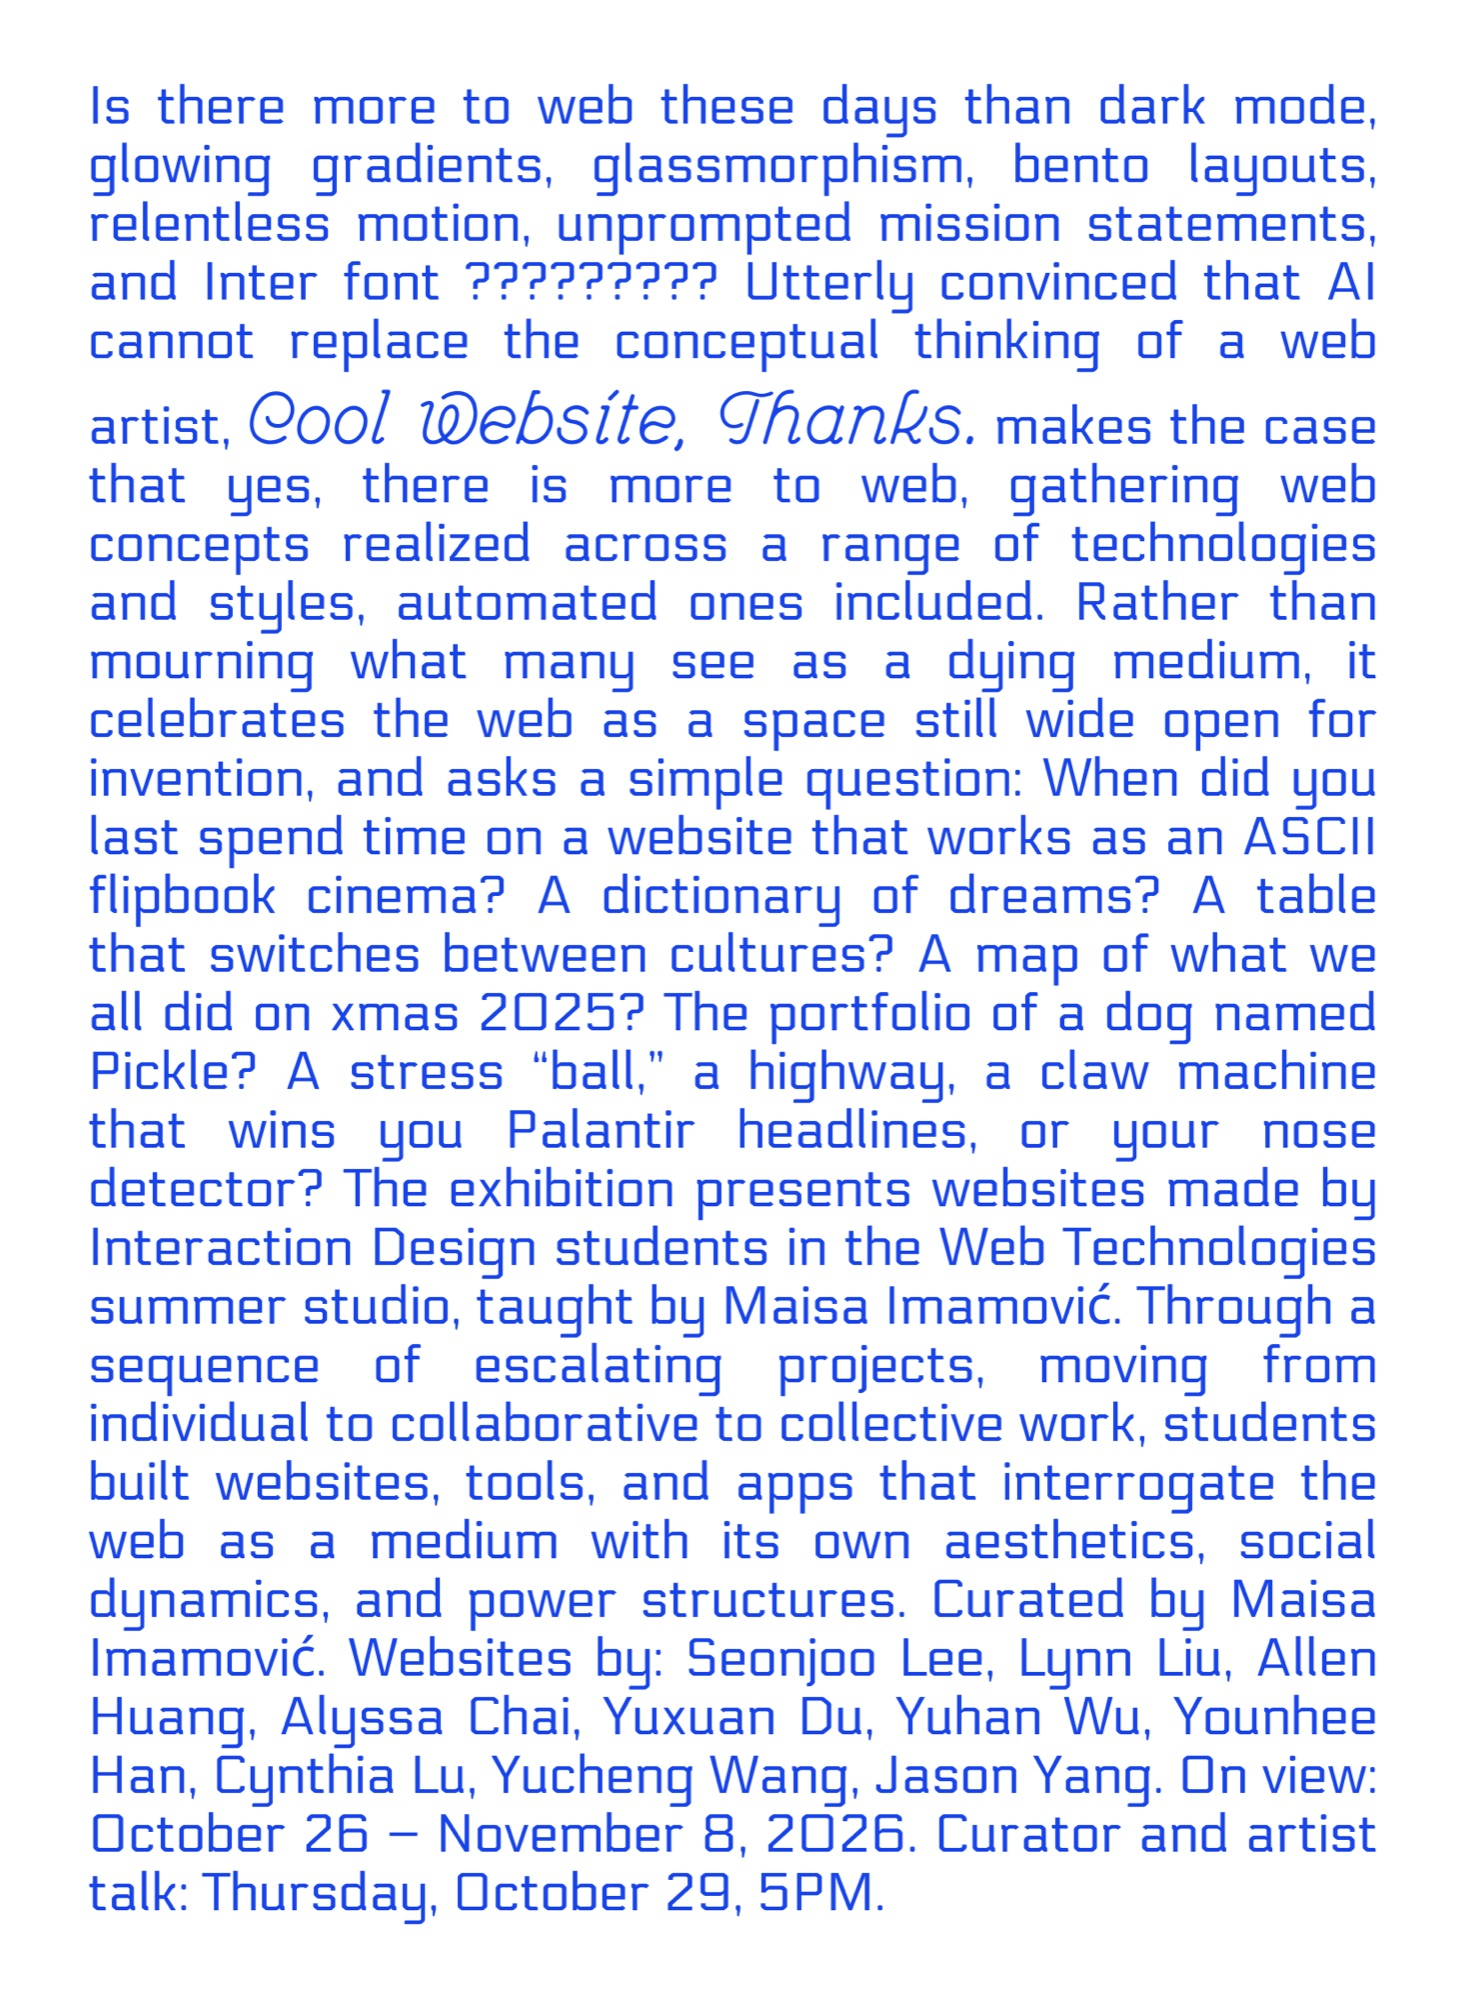
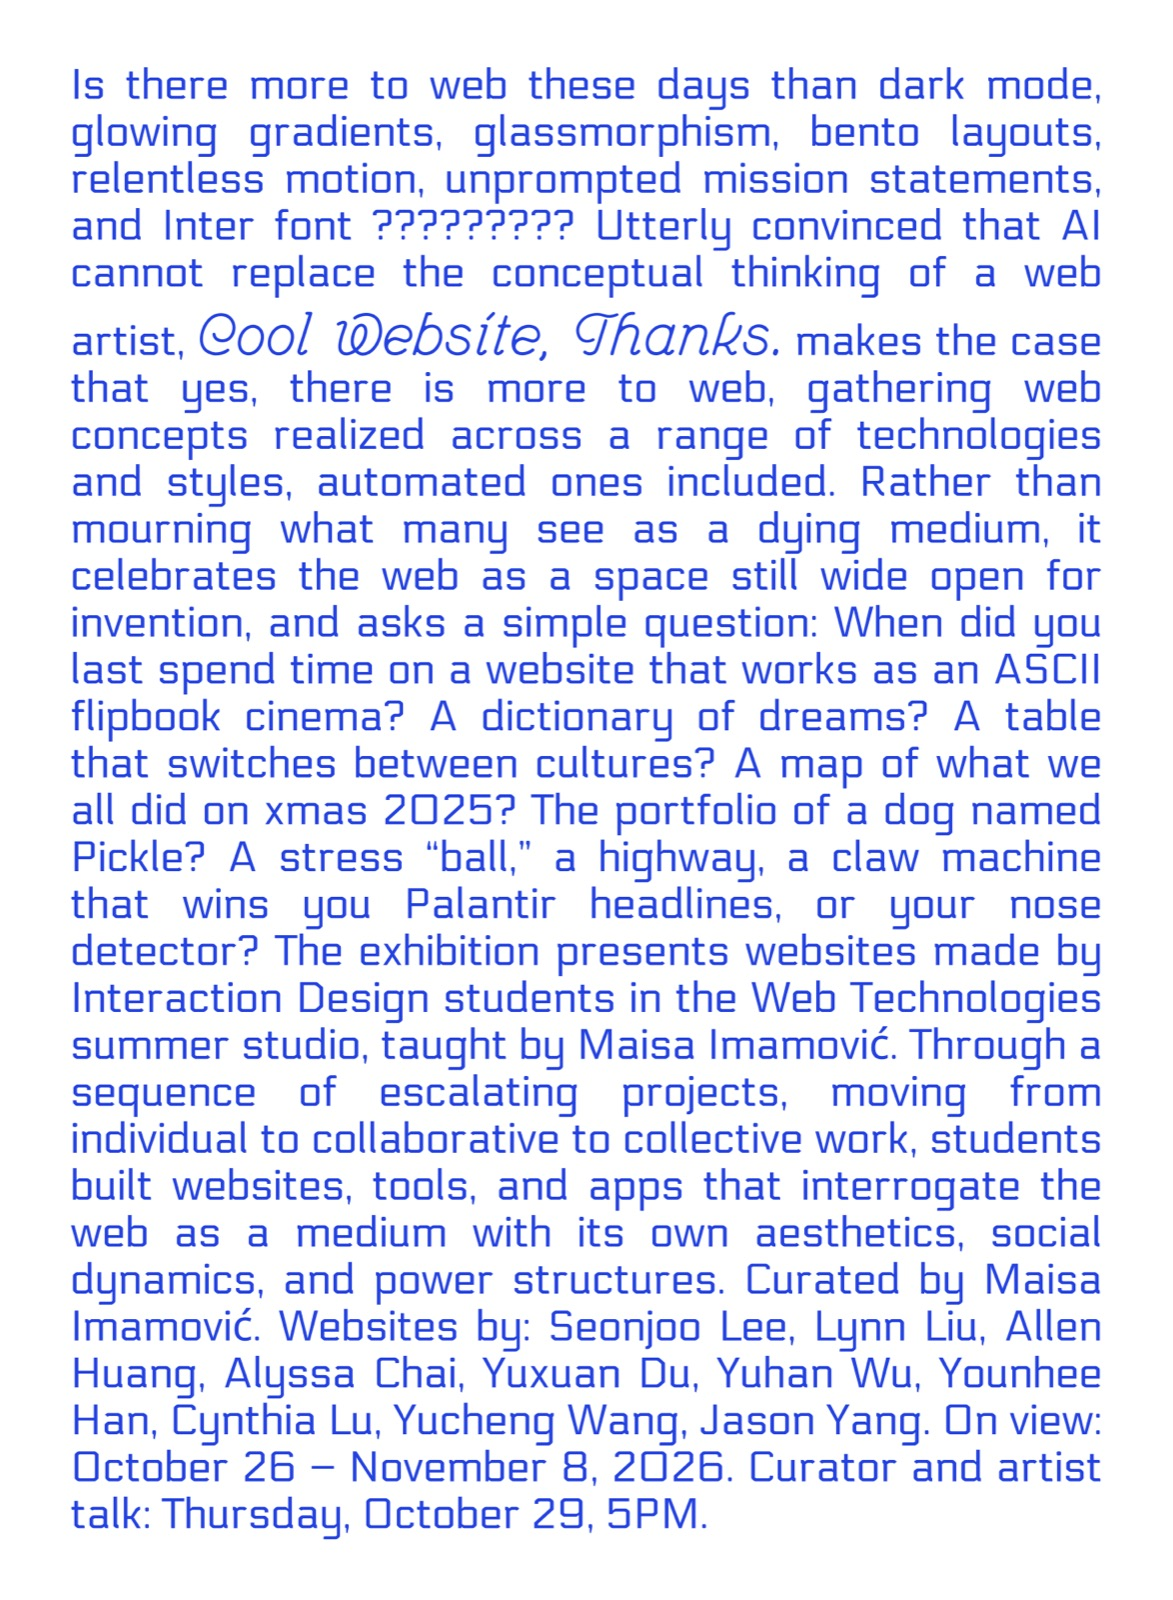
Add exhibition photos and final poster to Nose page
Two install shots from Cool Website, Thanks, the final poster and wall
text resized for the web, and a poster credit line. The empty photo
placeholders and their styles are gone.

diff --git a/nose.html b/nose.html
@@ -10,7 +10,7 @@
 <link href="https://fonts.googleapis.com/css2?family=Inter:wght@400;500;600&family=Oswald:wght@400;500;600&display=swap" rel="stylesheet">
 <link href="css/tokens.css?v=1" rel="stylesheet" type="text/css">
 <link href="css/reset.css" rel="stylesheet" type="text/css">
-<link href="css/nose.css?v=8" rel="stylesheet" type="text/css">
+<link href="css/nose.css?v=9" rel="stylesheet" type="text/css">
 <link href="css/shell.css?v=2" rel="stylesheet" type="text/css">
 </head>
 <body>
@@ -98,17 +98,20 @@
 
   <section class="nose-sec">
     <p class="nose-label">Exhibition — Cool Website, Thanks</p>
-    <p class="nose-note">ArtCenter College of Design, South Campus · Oct 26 – Nov 8, 2026</p>
+    <p class="nose-note">ArtCenter College of Design, South Campus · Oct 26 – Nov 8, 2026<br>Poster design: Younhee Han (lead) with Alyssa Chai</p>
     <div class="nose-grid">
       <figure class="nose-fig">
-        <img src="assets/images/nose/exhibition-poster.jpg" alt="Exhibition poster for Cool Website, Thanks">
+        <img src="assets/images/nose/exhibition-photo-room.jpg" alt="The gallery room: It's Not Your Nose on a monitor in the foreground, the poster and wall text on the far walls">
       </figure>
       <figure class="nose-fig">
-        <img src="assets/images/nose/exhibition-description.jpg" alt="Exhibition wall text">
+        <img src="assets/images/nose/exhibition-photo-poster-wall.jpg" alt="Visitors standing by the Cool Website, Thanks poster during the opening">
       </figure>
-      <!-- Exhibition photos: replace each placeholder with a figure like the ones above. -->
-      <div class="nose-fig nose-placeholder">Exhibition photo</div>
-      <div class="nose-fig nose-placeholder">Exhibition photo</div>
+      <figure class="nose-fig">
+        <img src="assets/images/nose/exhibition-poster.jpg?v=2" alt="Exhibition poster for Cool Website, Thanks">
+      </figure>
+      <figure class="nose-fig">
+        <img src="assets/images/nose/exhibition-description.jpg?v=2" alt="Exhibition wall text">
+      </figure>
     </div>
   </section>
 

diff --git a/css/nose.css b/css/nose.css
@@ -87,20 +87,6 @@ body {
     height: auto;
 }
 
-/* Holds the slot until exhibition photos arrive. */
-.nose-placeholder {
-    display: flex;
-    align-items: center;
-    justify-content: center;
-    aspect-ratio: 4 / 3;
-    background-color: rgb(240, 240, 240);
-    font-family: var(--shell-label);
-    font-size: 0.75rem;
-    letter-spacing: 0.08em;
-    text-transform: uppercase;
-    color: var(--shell-muted);
-}
-
 .nose-link {
     color: inherit;
     text-underline-offset: 3px;
